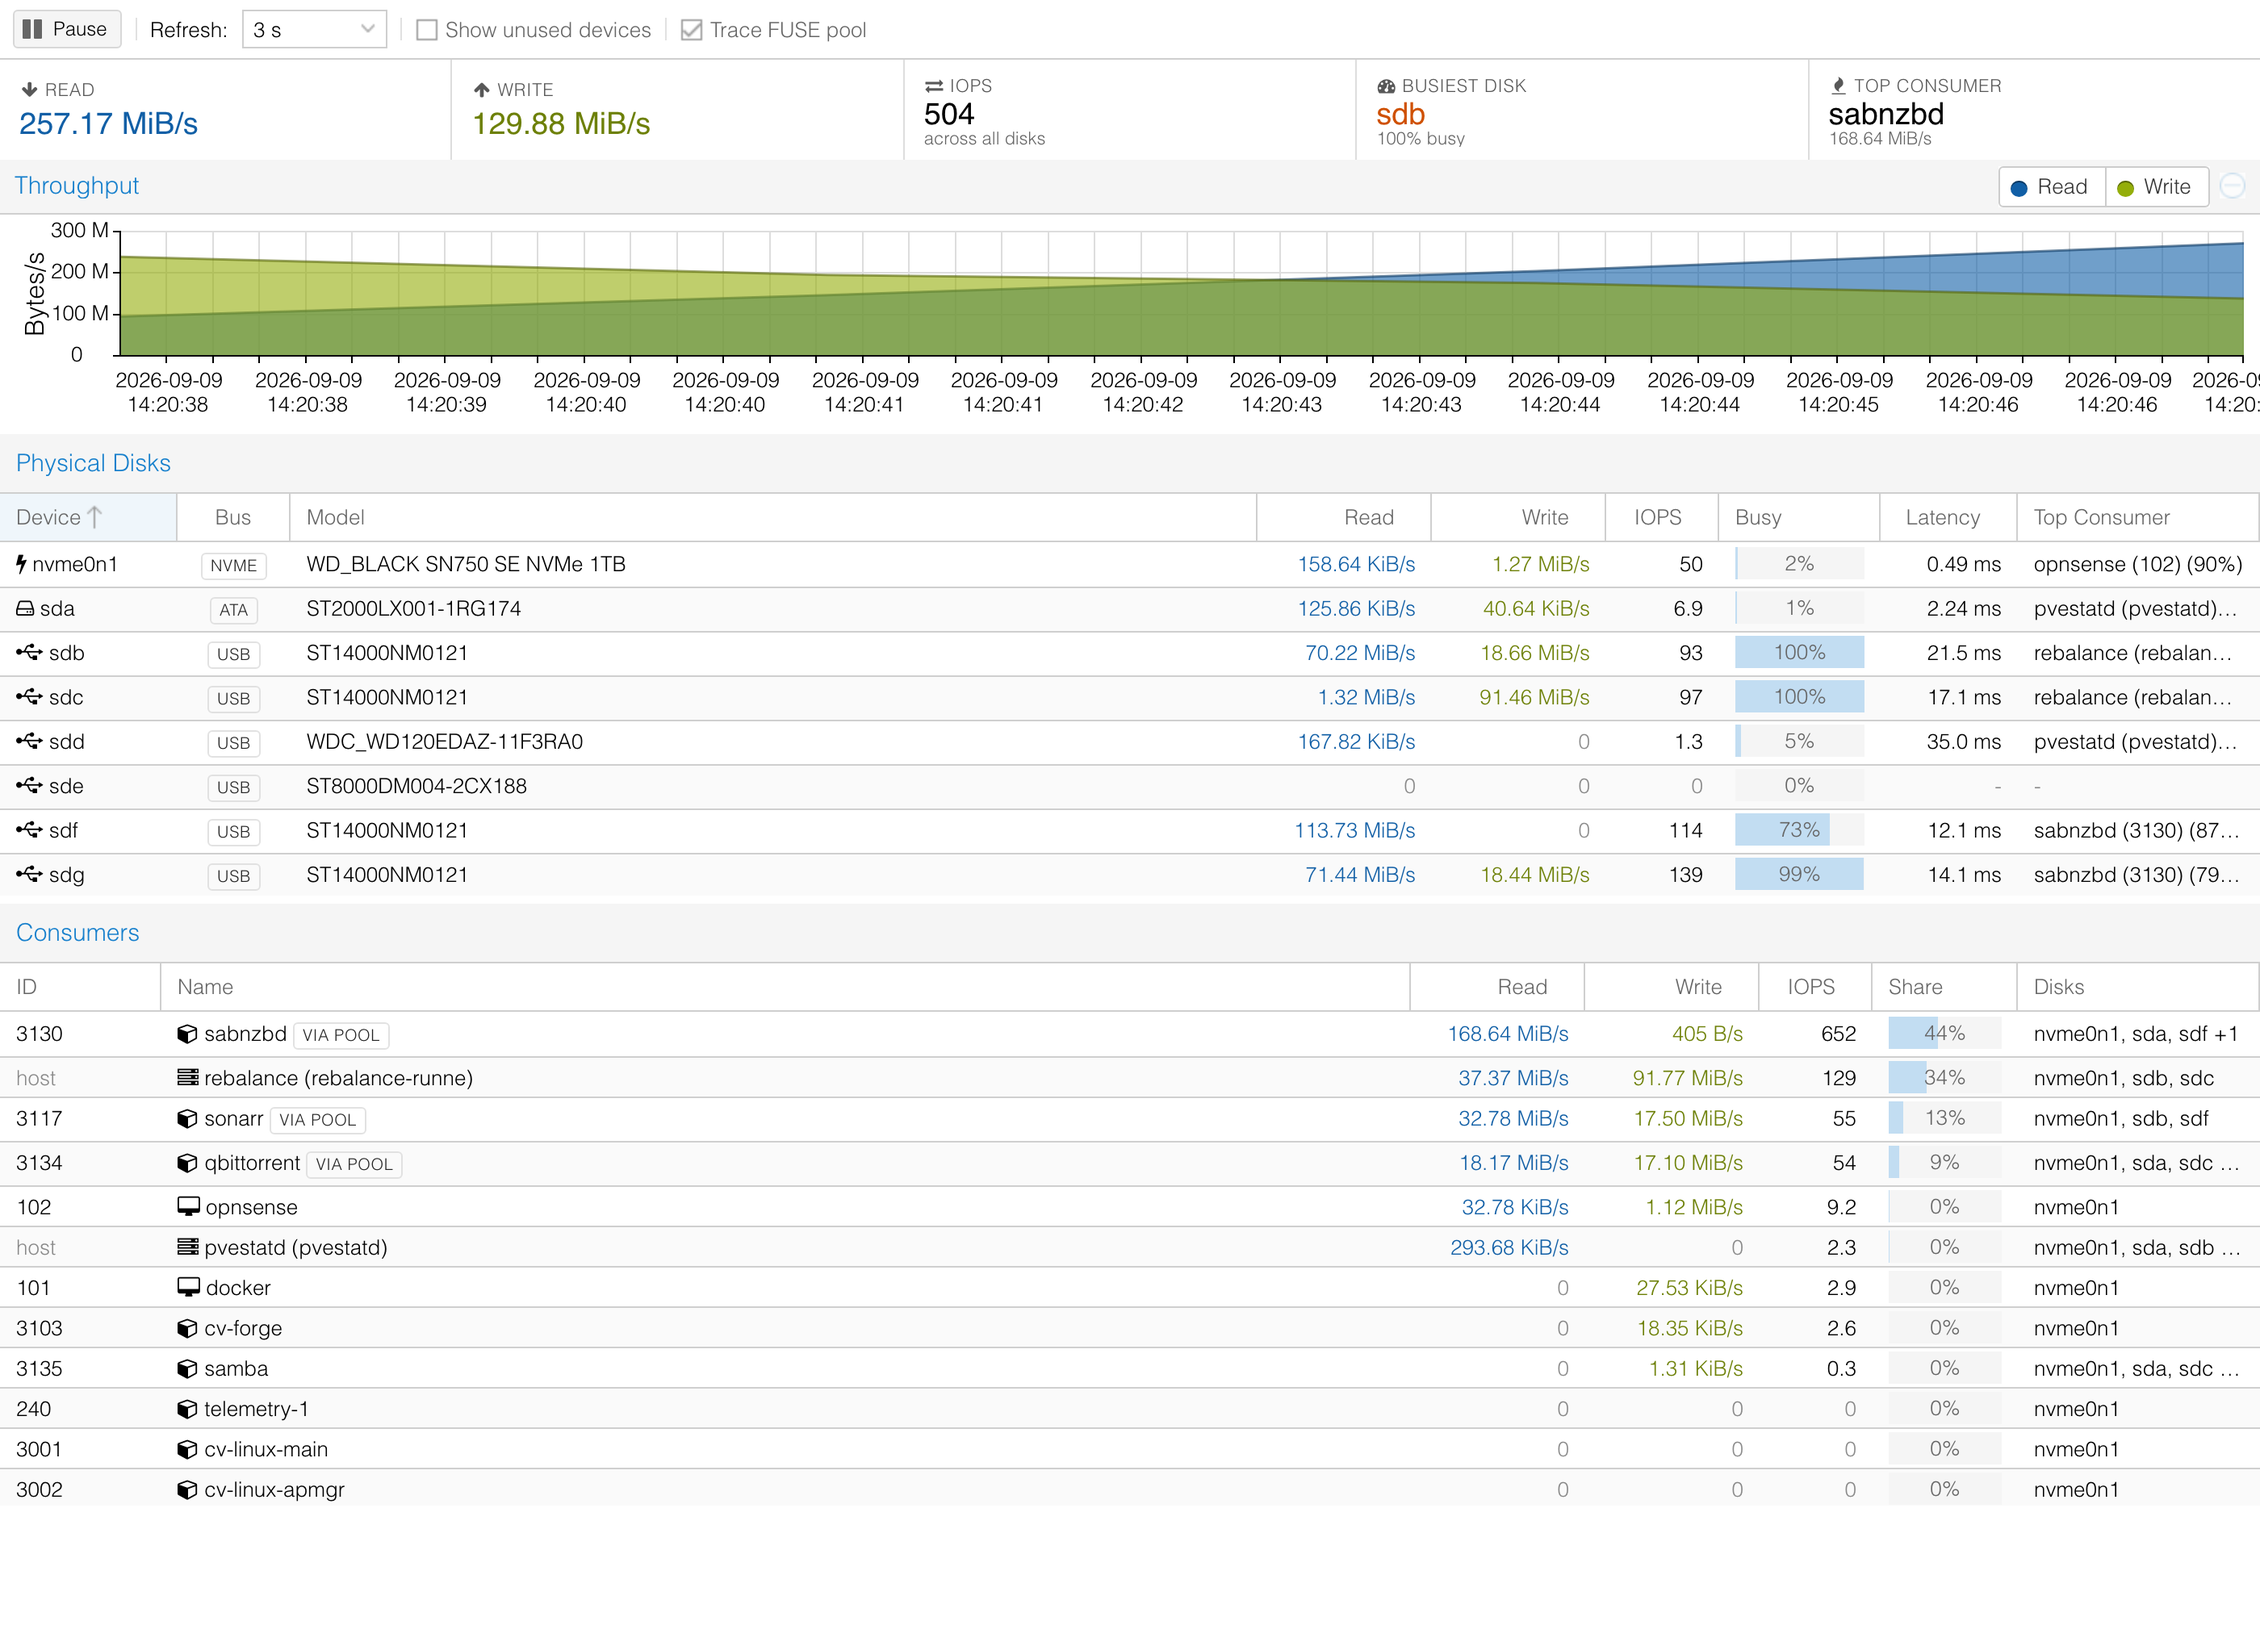
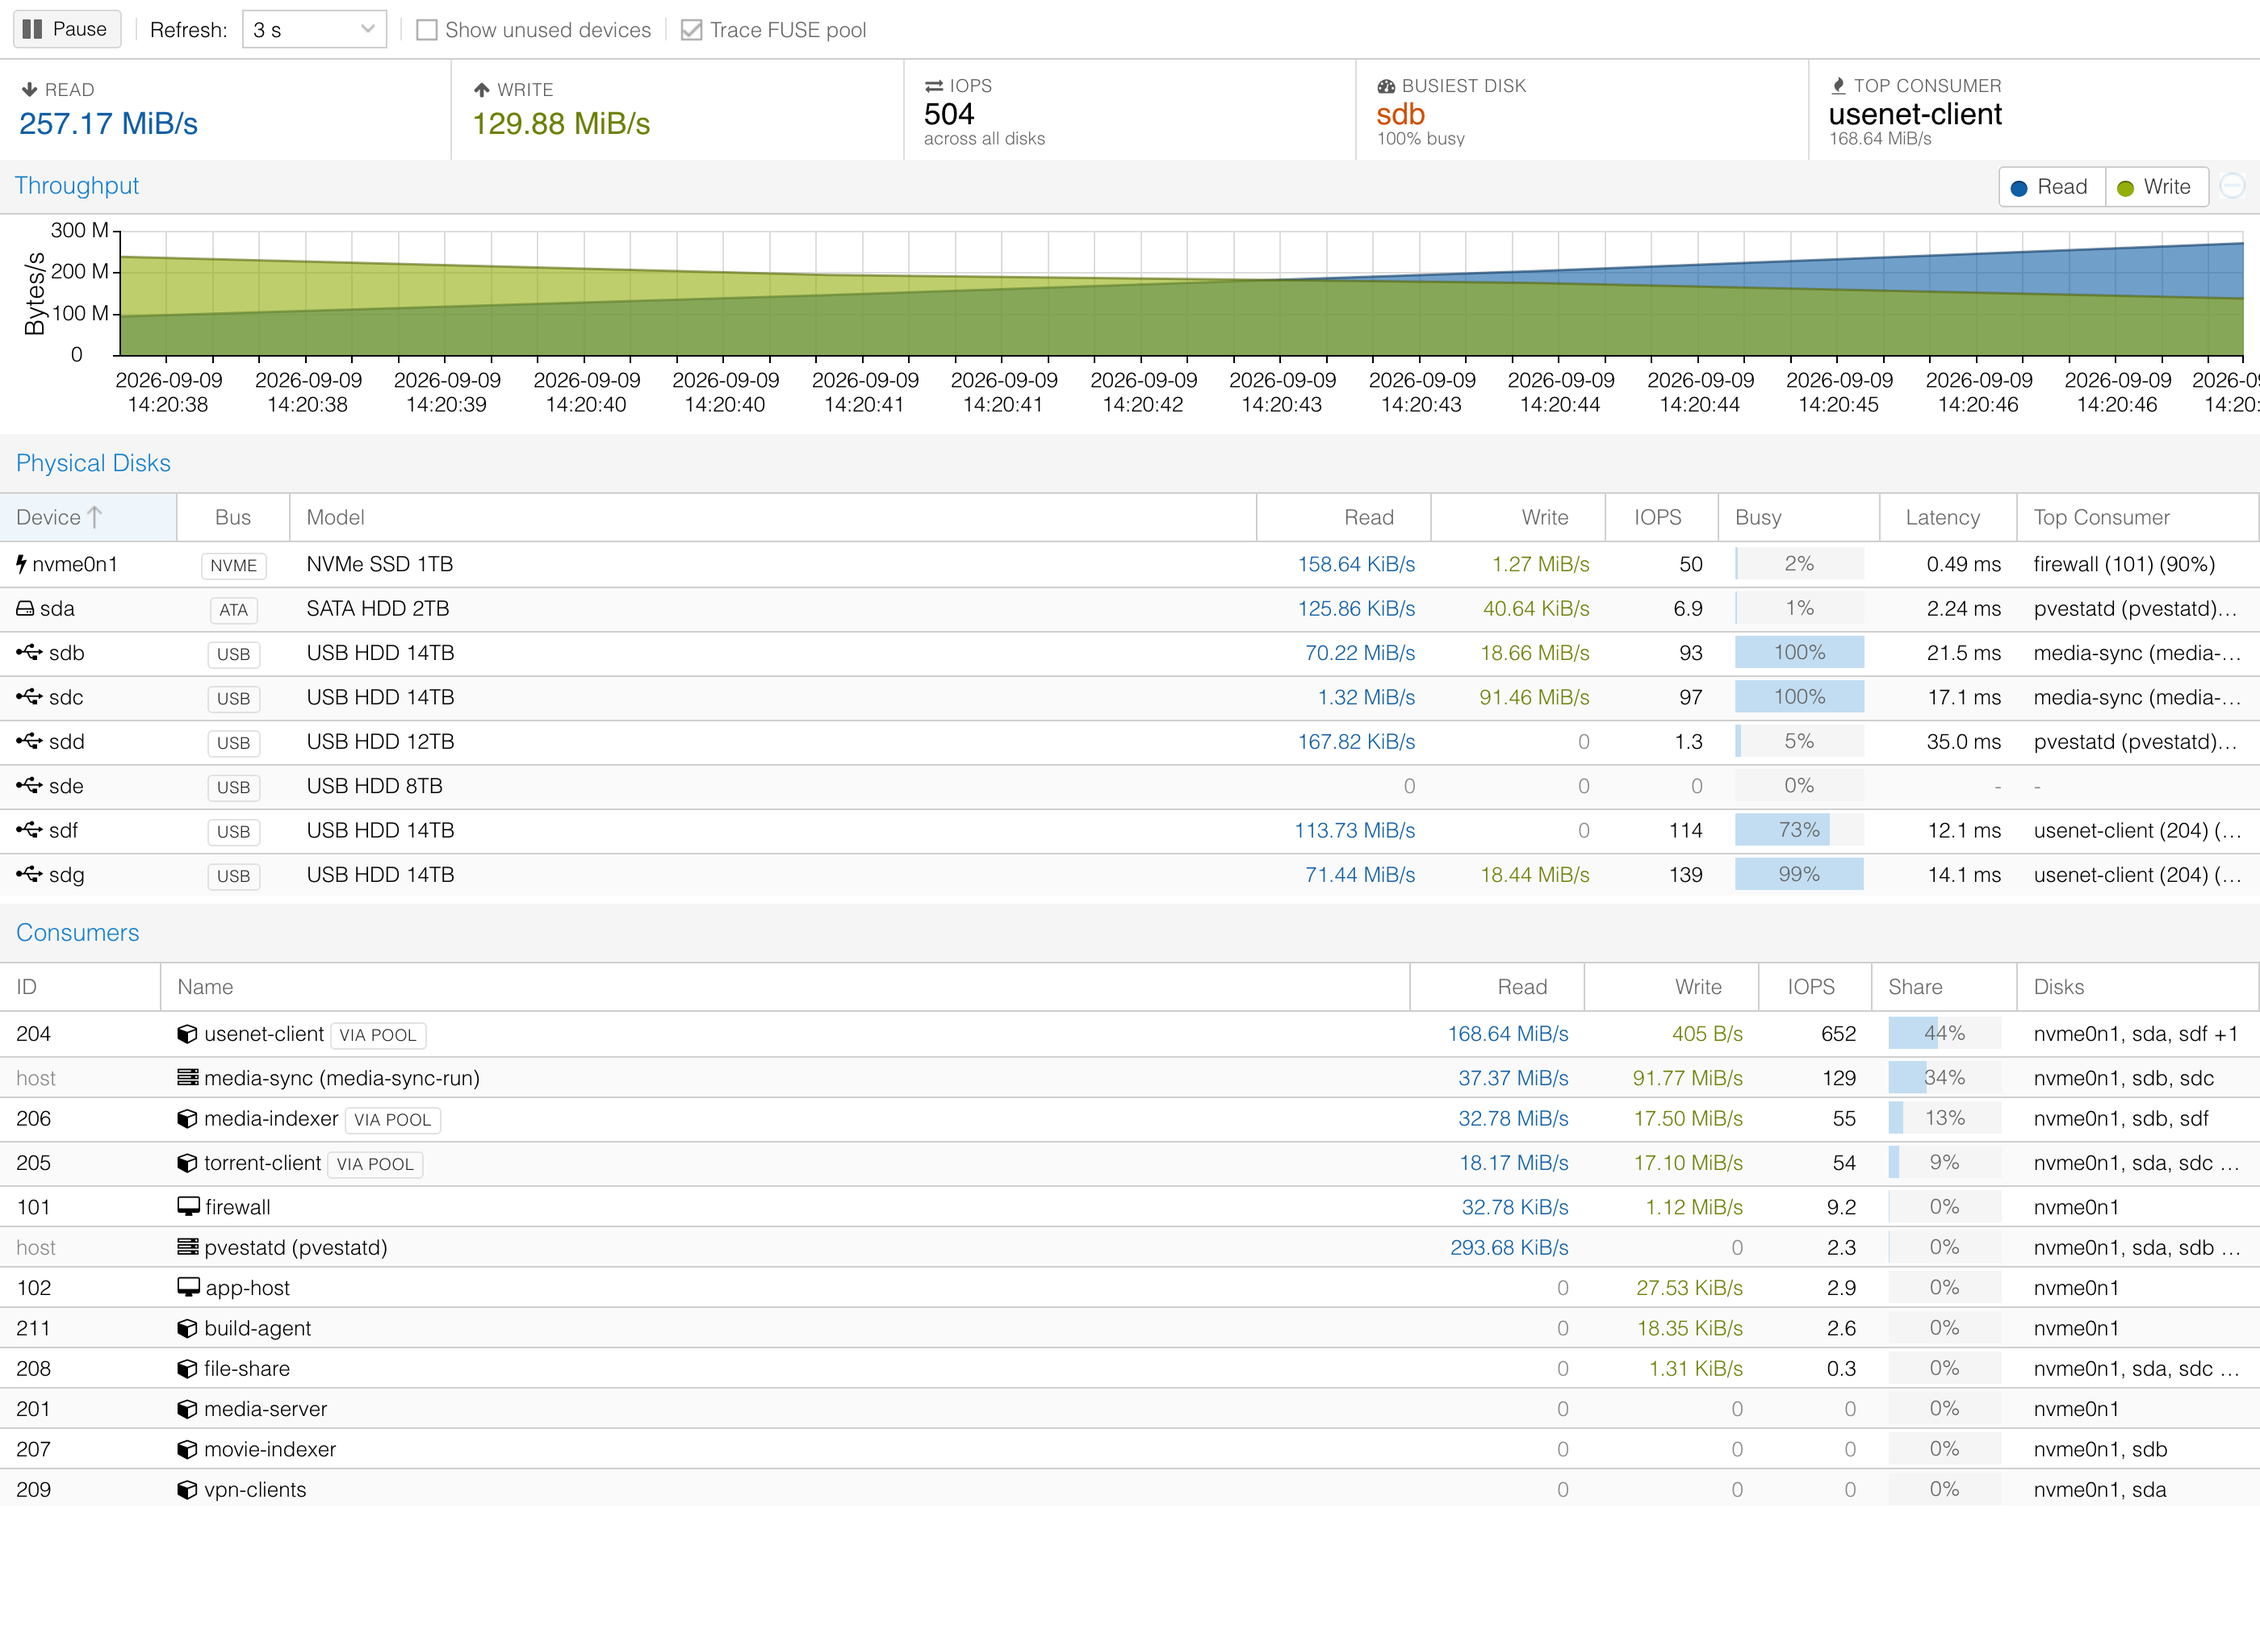
Anonymise screenshots, and fix three that were blank
Screenshots are regenerated from anonymised fixtures: guests carry
role names on a clean vmid range, disk models are generic, serials are
sequential, and the pool mountpoint is /mnt/pool. Stock PVE and Debian
units are left alone -- they are identical on every node and keep the
shots realistic. No real guest name, vmid, disk model or serial survives.

This also caught that three of the published screenshots were blank. The
screenshot harness stubbed Ext.Ajax.request to stop PVE's other widgets
firing requests at a backend that was not there, but that is exactly what
the RRD stores load through, so every history chart rendered an empty
axis. It only built our own components, so the stub was not needed at
all. I had verified the two live-panel shots and taken the other four on
trust, which is how blank images reached a public README.

README prose follows the new figures rather than the old ones.

diff --git a/README.md b/README.md
@@ -8,6 +8,9 @@ the web UI rather than bolted on beside it.
 
 ![The I/O Activity panel](docs/img/io-activity.png)
 
+<sub>Screenshots are real data from a live node, with guest names and disk models
+anonymised.</sub>
+
 It also sees through **mergerfs and other FUSE pools**, which is the case stock
 tooling gets most wrong. A container writing to a pool never touches a block
 device itself, so the kernel — and every tool built on it — credits the pool's
@@ -55,7 +58,7 @@ Reading it:
   daemon and handed to it. More on that below.
 - Selecting a disk rescopes the consumer list to that disk alone, so *"what is
   hammering sdb?"* is one click.
-- Host processes appear too — `rebalance` and `pvestatd` in the shot are
+- Host processes appear too — `media-sync` and `pvestatd` in the shot are
   systemd units, not guests. A script moving media is as much a consumer of a
   disk as any container.
 
@@ -92,8 +95,8 @@ Every LXC and VM gets its own page, next to the hardware it describes.
 
 **Share of disk** is the useful column: how much of *that disk's* traffic is
 this guest. In the shot `sdh` is 100% — this container is the only thing
-touching it — while `sdg` is 44%, because it is competing with two other
-consumers.
+touching it — while `sdg` is 21%, because it is competing with other
+consumers for that spindle.
 
 ### Any guest → Summary → Disk I/O by Disk
 
@@ -183,7 +186,7 @@ and so does every cgroup built on it, which means so does Proxmox, `iotop`,
 
 Left alone, the panel would truthfully report
 
-> `/mnt/storage (mergerfs)` is writing 58 MB/s to `sdh`
+> `/mnt/pool (mergerfs)` is writing 113 MB/s to `sdf`
 
 while hiding the only thing worth knowing, which is who asked it to.
 
@@ -196,19 +199,19 @@ and as a disk's **Top Consumer**:
 
 | Disk | Stock view | Here |
 | --- | --- | --- |
-| sdh | `/mnt/storage (mergerfs)` | **sabnzbd (3130)** — 97% |
-| sdg | `/mnt/storage (mergerfs)` | **sabnzbd (3130)** — 86% |
-| sdf | `/mnt/storage (mergerfs)` | **plex (3111)** — 100% |
-| sdc | `/mnt/storage (mergerfs)` | **rebalance (rebalance-runner)** — 69% |
+| sdf | `/mnt/pool (mergerfs)` | **usenet-client (204)** |
+| sdg | `/mnt/pool (mergerfs)` | **usenet-client (204)** |
+| sdb | `/mnt/pool (mergerfs)` | **media-sync** — a host unit |
+| sdc | `/mnt/pool (mergerfs)` | **media-sync** — a host unit |
 
-Host callers count too: a rebalance script pooling media is as much a consumer
-as a container is.
+Host callers count too: a script pooling media is as much a consumer as a
+container is, and shows up by name beside them.
 
 ### How it works
 
 - **Callers are found by matching open descriptors on the pool's `st_dev`**,
   not on a path prefix. A container sees the pool at its own mountpoint —
-  `/storage` in one, `/mnt/storage` in another — so matching on the path finds
+  `/storage` in one, `/mnt/pool` in another — so matching on the path finds
   nothing. Matching on the filesystem finds them all.
 - **The disk behind each file comes from mergerfs's own
   `user.mergerfs.basepath` xattr**, resolved through the mount table. That is
